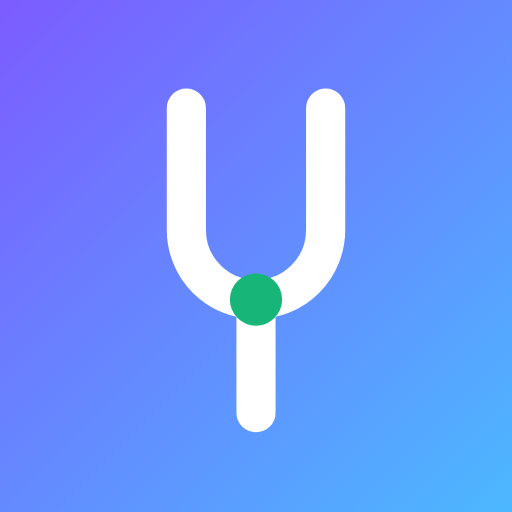
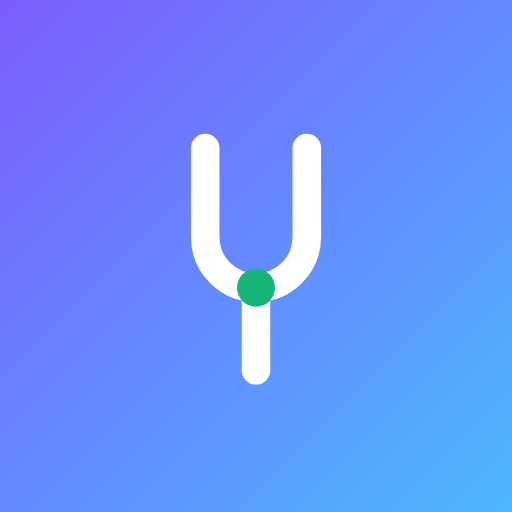
Give the fork room in the tile, and point the URLs at practicepartner
The mark ran nearly the full height of its own viewBox, so on a home screen
it filled the icon edge to edge and read as a sticker rather than as an app.
Scaled to about half the square, which is what the tiles beside it do. The
maskable variant comes down with it, still further inside Android's circle.

Canonical and share URLs now name practicepartner.vercel.app.

Changed region(s): [[0.3125, 0.1562, 0.6875, 0.8438]]

diff --git a/index.html b/index.html
@@ -22,12 +22,12 @@
        outright and X is unreliable with one, so a share card is precisely the
        case a relative path fails. Update these two if the site moves to a
        custom domain — they are the only place the origin is written down. -->
-  <link rel="canonical" href="https://music-companion-eight.vercel.app/" />
+  <link rel="canonical" href="https://practicepartner.vercel.app/" />
   <meta property="og:type" content="website" />
-  <meta property="og:url" content="https://music-companion-eight.vercel.app/" />
+  <meta property="og:url" content="https://practicepartner.vercel.app/" />
   <meta property="og:title" content="Practice Partner" />
   <meta property="og:description" content="A tuner that remembers what you played — intonation, timing and progress from your own practice, all on your device." />
-  <meta property="og:image" content="https://music-companion-eight.vercel.app/og.png" />
+  <meta property="og:image" content="https://practicepartner.vercel.app/og.png" />
   <meta property="og:image:width" content="1200" />
   <meta property="og:image:height" content="630" />
   <meta name="twitter:card" content="summary_large_image" />

diff --git a/tools/icon.html b/tools/icon.html
@@ -32,7 +32,11 @@
      inside the inner 80% or its edges are cut on a Pixel. The mark is only
      about 59% of its own viewBox wide to begin with and clears that circle
      almost unscaled; 0.85 keeps a margin without shrinking it to a dot. */
-  body[data-v="maskable"] .gauge { transform: scale(0.85); }
+  /* The fork runs nearly the full height of its own viewBox, which is too much
+     of an icon tile — it reads as a sticker rather than an app icon. Art at
+     roughly half the square is what the tiles around it on a home screen do. */
+  body[data-v="icon"] .gauge { transform: scale(0.72); }
+  body[data-v="maskable"] .gauge { transform: scale(0.62); }
 
   /* The launch screen is not a billboard — it is the app's first frame drawn a
      moment early, so it wears the app's own background and shows the mark at
